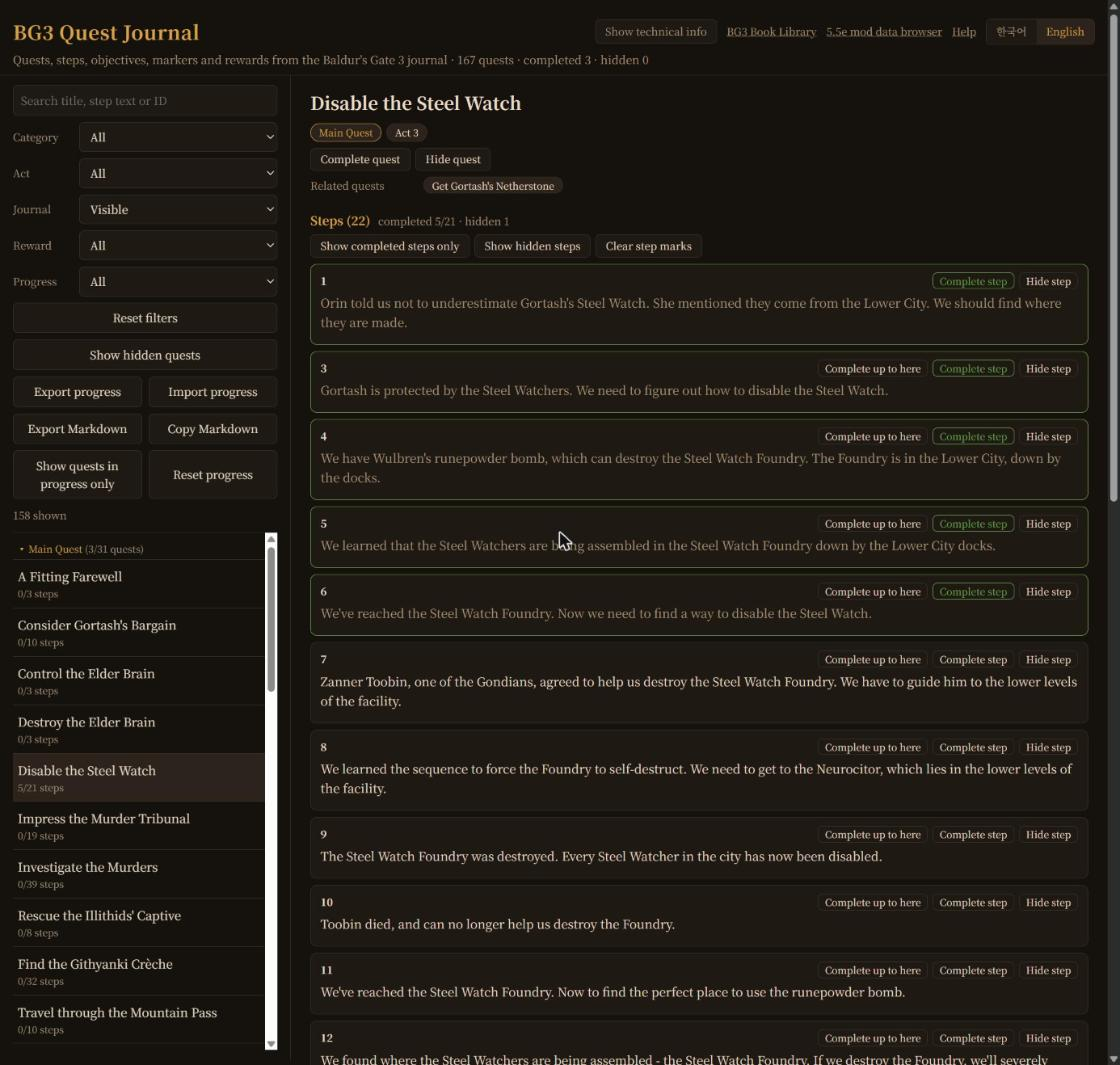
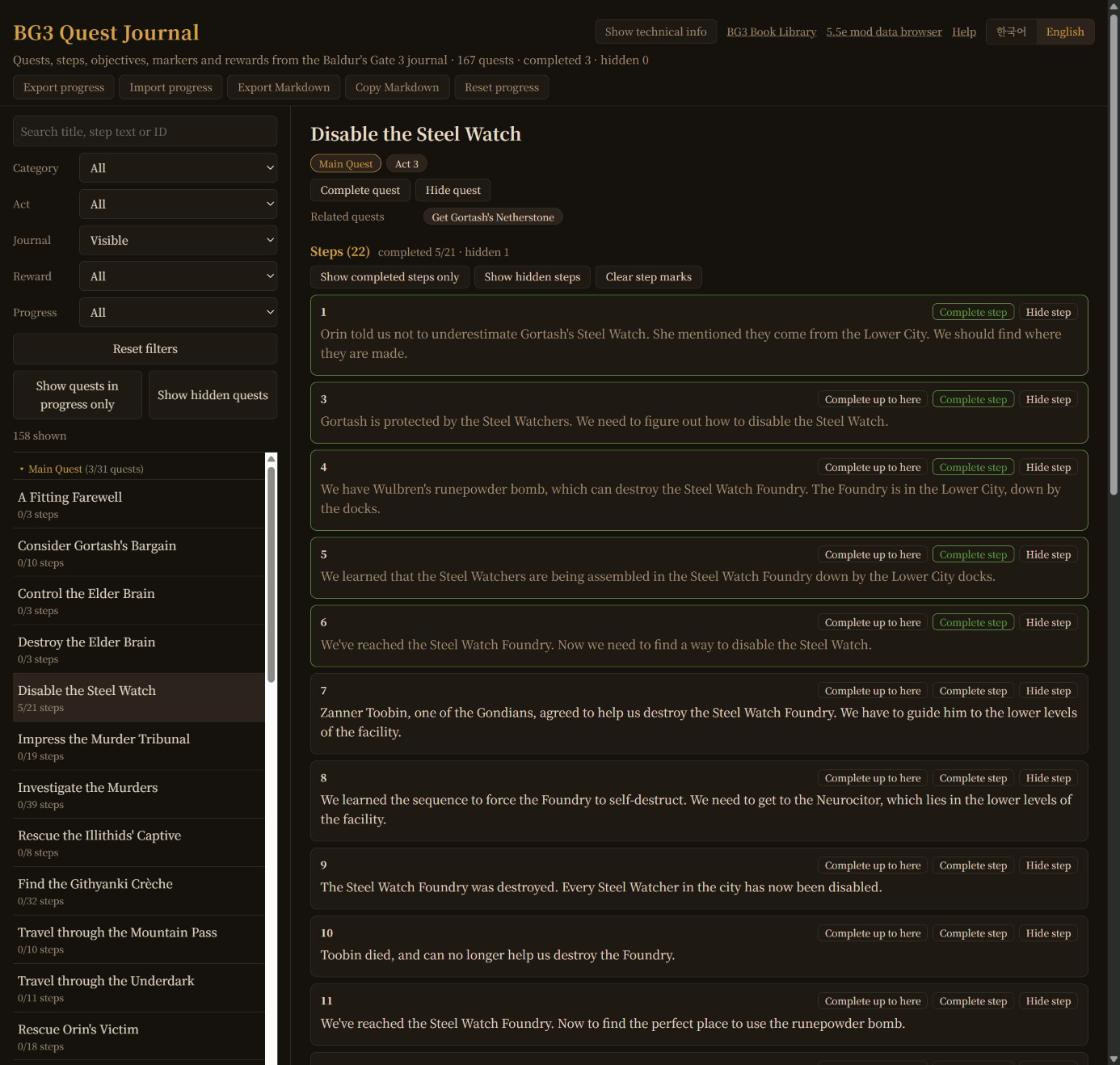
feat: 내보내기·불러오기·초기화 버튼을 상단으로, 보기 토글 두 개를 한 줄로, 스크린샷 갱신

diff --git a/docs/index.html b/docs/index.html
@@ -29,6 +29,7 @@
     </div></div>
   </div>
   <p class="sub"><span data-i18n="sub"></span> <span id="total"></span></p>
+  <div class="io-tools"><button id="export" type="button" class="tech-btn" data-i18n="export"></button><button id="import" type="button" class="tech-btn" data-i18n="import"></button><button id="export-md" type="button" class="tech-btn" data-i18n="exportMd"></button><button id="copy-md" type="button" class="tech-btn" data-i18n="copyMd"></button><button id="reset-marks" type="button" class="tech-btn" data-i18n="resetMarks"></button><button id="restore" type="button" class="tech-btn" data-i18n="restore" hidden></button></div>
 </header>
 <div class="layout">
   <aside class="filters">
@@ -39,8 +40,7 @@
     <label><span data-i18n="f-rw"></span> <select id="f-rw"></select></label>
     <label><span data-i18n="f-st"></span> <select id="f-st"></select></label>
     <button id="reset" type="button" data-i18n="reset"></button>
-    <button id="show-hid" type="button"></button>
-    <div class="mark-tools"><button id="export" type="button" data-i18n="export"></button><button id="import" type="button" data-i18n="import"></button><button id="export-md" type="button" data-i18n="exportMd"></button><button id="copy-md" type="button" data-i18n="copyMd"></button><button id="in-prog" type="button"></button><button id="reset-marks" type="button" data-i18n="resetMarks"></button><button id="restore" type="button" data-i18n="restore" hidden></button></div>
+    <div class="mark-tools"><button id="in-prog" type="button"></button><button id="show-hid" type="button"></button></div>
     <input id="import-file" type="file" accept=".json,application/json" hidden>
     <p class="count" id="count"></p>
     <ul id="list"></ul>

diff --git a/docs/style.css b/docs/style.css
@@ -33,8 +33,8 @@ h1 { margin: 0; font-size: 24px; color: var(--accent); letter-spacing: .02em; }
 .filters label { display: grid; grid-template-columns: 76px 1fr; align-items: center; gap: 6px; font-size: 13px; color: var(--muted); }
 .filters button { cursor: pointer; }
 .mark-tools { display: grid; grid-template-columns: 1fr 1fr; gap: 8px; }
-.mark-tools [hidden] { display: none; }
-#restore { grid-column: 1 / -1; }
+.io-tools { display: flex; flex-wrap: wrap; gap: 6px; margin-top: 8px; }
+.io-tools [hidden] { display: none; }
 #list li.done .t::before { content: "✔ "; color: #6aa84f; }
 #list li.done .t, #list li.hide .t { color: var(--muted); }
 #list li.hide .t::before { content: "⊘ "; }
